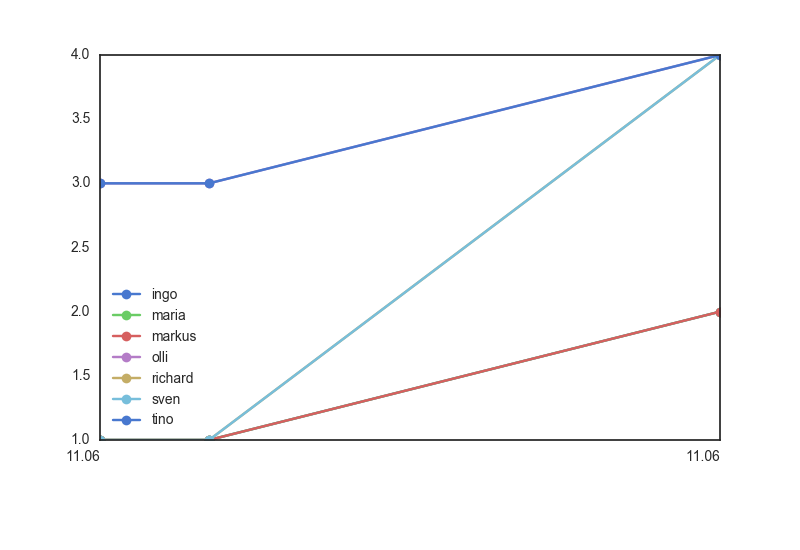
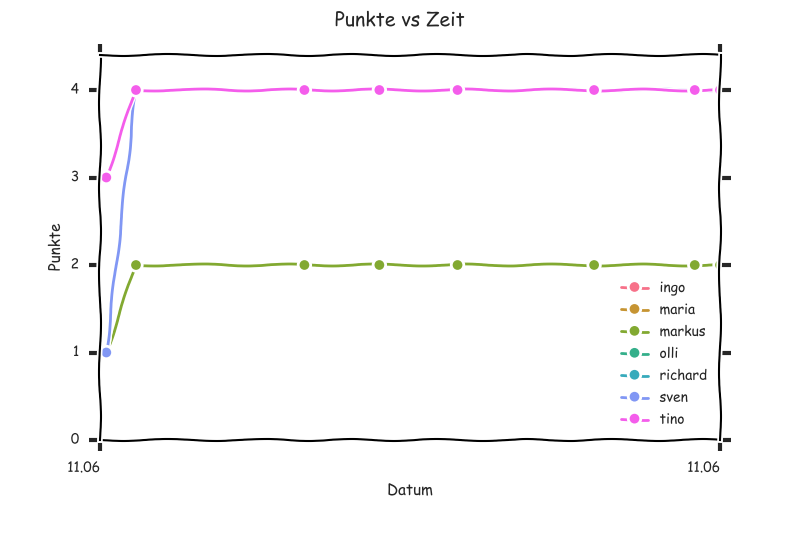
nicer graphics

diff --git a/tippspiel.py b/tippspiel.py
@@ -6,6 +6,7 @@ import pandas as pd
 import datetime
 import matplotlib.pyplot as plt
 import matplotlib.dates as dates
+import matplotlib.ticker as ticker
 import seaborn as sns
 from itertools import repeat
 from operator import sub
@@ -104,11 +105,15 @@ def add_rounds(standings):
 def update_data():
 
     sns.set_style('white')
+    plt.xkcd() 
     series = pd.Series(add_rounds(get_all_rounds()))
     series.name = datetime.datetime.now()
-    colors = sns.color_palette("muted", len(series))
+    colors = sns.color_palette("husl", len(series))
     ax = series.plot(kind="bar", rot=0, sort_columns=True, color=colors)
     fig = ax.get_figure()
+    fig.suptitle("Aktuelles Ranking")
+    plt.xlabel("Spieler")
+    plt.ylabel("Punkte")
     fig.savefig("standings.png")
 
     if os.path.isfile(DATA_FILE):
@@ -120,7 +125,13 @@ def update_data():
     ax = df.plot(sort_columns=True, rot=0, color=colors, marker='o')
     ax.xaxis.set_major_locator(dates.WeekdayLocator(byweekday=range(1, 8), interval=1))
     ax.xaxis.set_major_formatter(dates.DateFormatter('%d.%m'))
+    ax.set_ylim([0, 1.1*max(series)])
+    ax.yaxis.set_major_locator(ticker.MaxNLocator(integer=True))
+
     fig = ax.get_figure()
+    fig.suptitle("Punkte vs Zeit")
+    plt.xlabel("Datum")
+    plt.ylabel("Punkte")
     fig.savefig("standings_vs_time.png")
 
     df.to_pickle(DATA_FILE)
